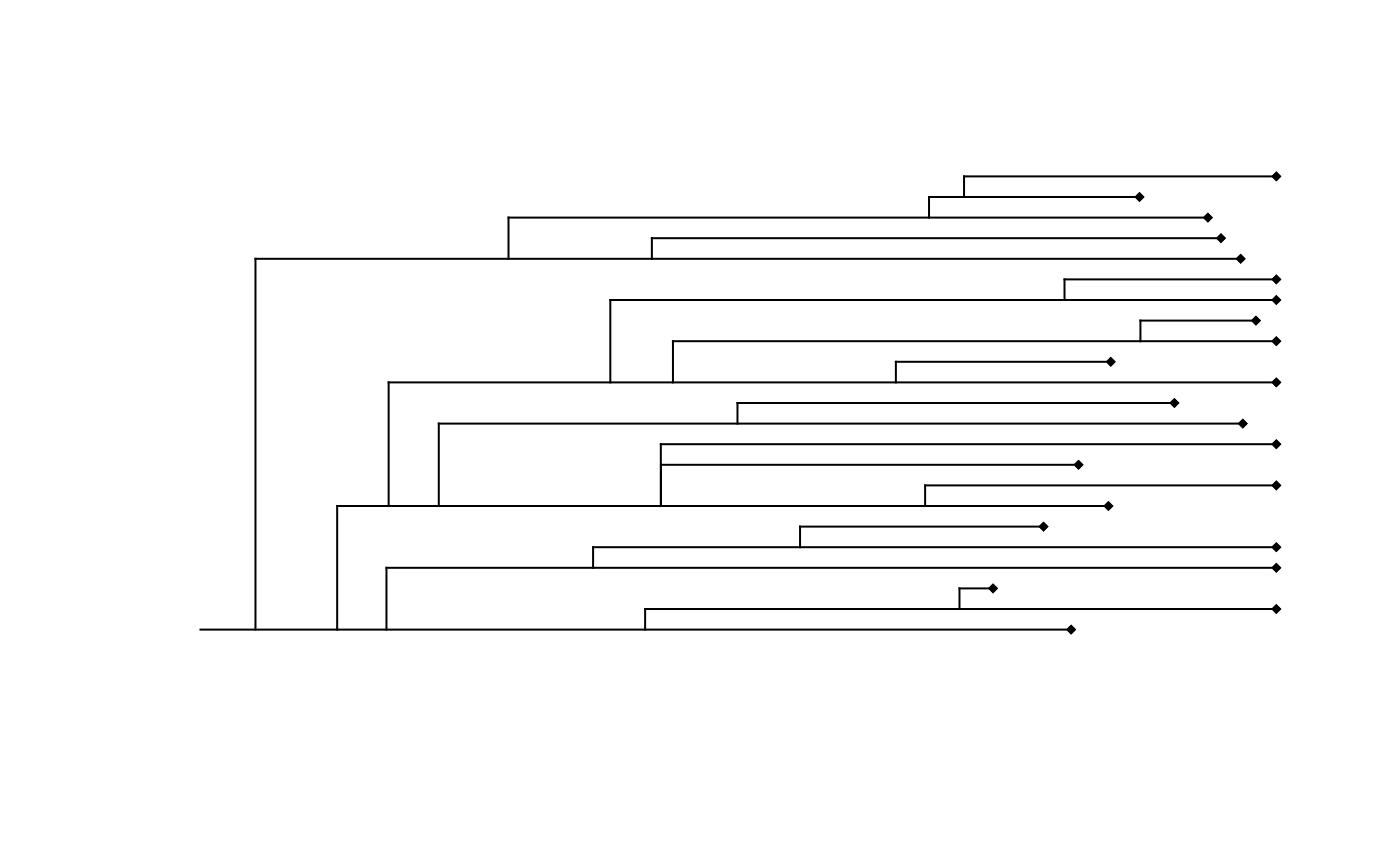
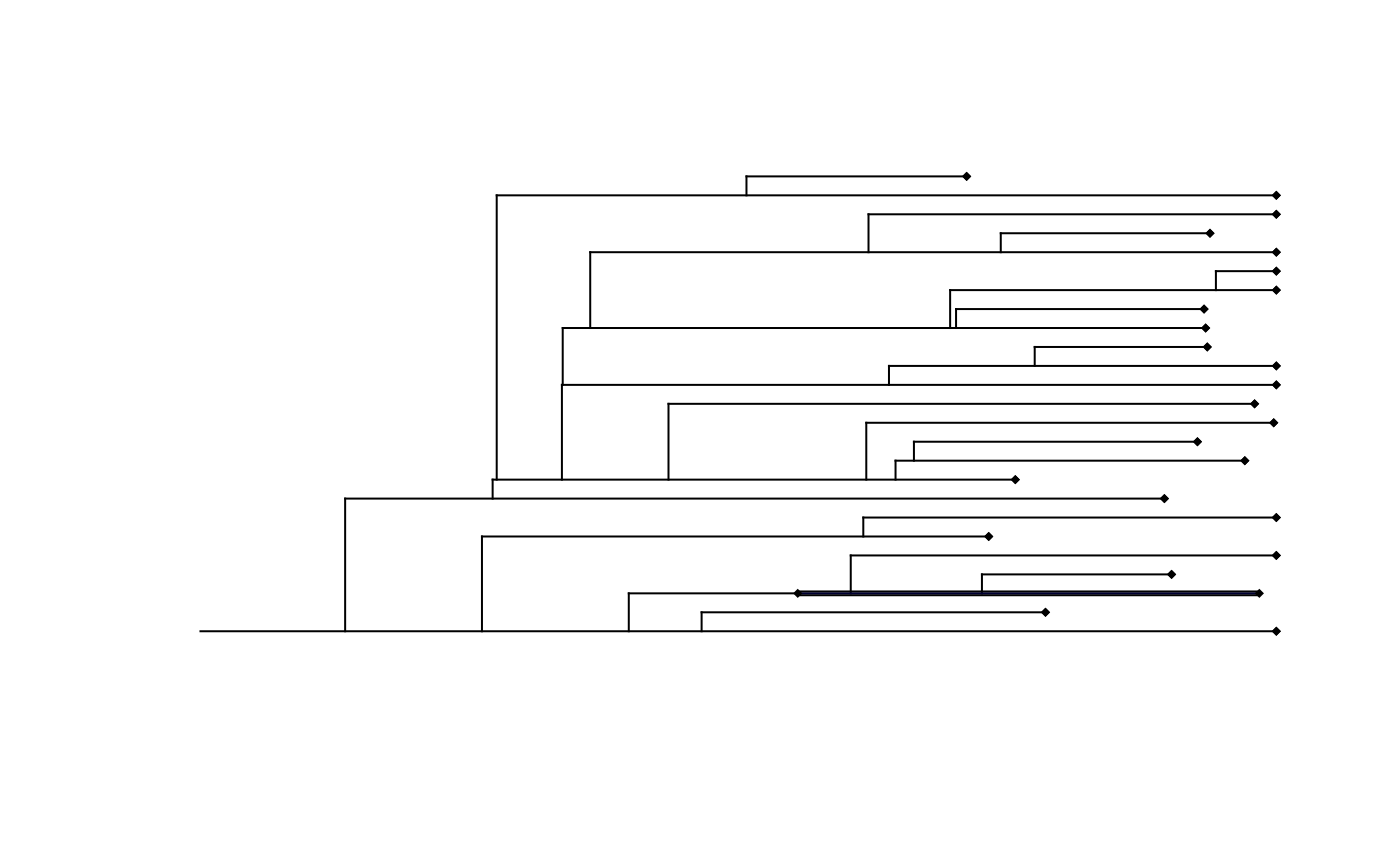
final project

Changed region(s): [[0.1536, 0.1873, 0.9214, 0.7491], [0.3379, 0.6555, 0.3686, 0.6867]]

diff --git a/docs/articles/Baruwal_R_Package_Tutorial.html b/docs/articles/Baruwal_R_Package_Tutorial.html
@@ -87,11 +87,11 @@
 <p>You might need to install these packages:</p>
 <div class="sourceCode" id="cb1"><pre class="downlit sourceCode r">
 <code class="sourceCode R"><span class="fu"><a href="https://rdrr.io/r/utils/install.packages.html" class="external-link">install.packages</a></span><span class="op">(</span><span class="st">"tidyverse"</span><span class="op">)</span></code></pre></div>
-<pre><code><span class="co">## Installing package into '/tmp/Rtmplx8jUv/temp_libpath11a576e508'</span>
+<pre><code><span class="co">## Installing package into '/tmp/Rtmplx8jUv/temp_libpath11a23e0ba47'</span>
 <span class="co">## (as 'lib' is unspecified)</span></code></pre>
 <div class="sourceCode" id="cb3"><pre class="downlit sourceCode r">
 <code class="sourceCode R"><span class="fu"><a href="https://rdrr.io/r/utils/install.packages.html" class="external-link">install.packages</a></span><span class="op">(</span><span class="st">"ggplot2"</span><span class="op">)</span></code></pre></div>
-<pre><code><span class="co">## Installing package into '/tmp/Rtmplx8jUv/temp_libpath11a576e508'</span>
+<pre><code><span class="co">## Installing package into '/tmp/Rtmplx8jUv/temp_libpath11a23e0ba47'</span>
 <span class="co">## (as 'lib' is unspecified)</span></code></pre>
 <div class="sourceCode" id="cb5"><pre class="downlit sourceCode r">
 <code class="sourceCode R"><span class="kw"><a href="https://rdrr.io/r/base/library.html" class="external-link">library</a></span><span class="op">(</span><span class="va"><a href="https://tidyverse.tidyverse.org" class="external-link">tidyverse</a></span><span class="op">)</span></code></pre></div>
@@ -107,7 +107,7 @@
 <code class="sourceCode R"><span class="kw"><a href="https://rdrr.io/r/base/library.html" class="external-link">library</a></span><span class="op">(</span><span class="va"><a href="https://ggplot2.tidyverse.org" class="external-link">ggplot2</a></span><span class="op">)</span></code></pre></div>
 <div class="sourceCode" id="cb10"><pre class="downlit sourceCode r">
 <code class="sourceCode R"><span class="fu"><a href="https://rdrr.io/r/utils/install.packages.html" class="external-link">install.packages</a></span><span class="op">(</span><span class="st">"devtools"</span><span class="op">)</span></code></pre></div>
-<pre><code><span class="co">## Installing package into '/tmp/Rtmplx8jUv/temp_libpath11a576e508'</span>
+<pre><code><span class="co">## Installing package into '/tmp/Rtmplx8jUv/temp_libpath11a23e0ba47'</span>
 <span class="co">## (as 'lib' is unspecified)</span></code></pre>
 <div class="sourceCode" id="cb12"><pre class="downlit sourceCode r">
 <code class="sourceCode R"><span class="kw"><a href="https://rdrr.io/r/base/library.html" class="external-link">library</a></span><span class="op">(</span><span class="va"><a href="https://devtools.r-lib.org/" class="external-link">devtools</a></span><span class="op">)</span></code></pre></div>
@@ -115,7 +115,7 @@
 <p>You need to install FossilSim R package for this package to run. # FossilSim is used for simulating trees directly from a fossilized-birth death process using the sim.fbd function.</p>
 <div class="sourceCode" id="cb14"><pre class="downlit sourceCode r">
 <code class="sourceCode R"><span class="fu"><a href="https://rdrr.io/r/utils/install.packages.html" class="external-link">install.packages</a></span><span class="op">(</span><span class="st">"FossilSim"</span><span class="op">)</span></code></pre></div>
-<pre><code><span class="co">## Installing package into '/tmp/Rtmplx8jUv/temp_libpath11a576e508'</span>
+<pre><code><span class="co">## Installing package into '/tmp/Rtmplx8jUv/temp_libpath11a23e0ba47'</span>
 <span class="co">## (as 'lib' is unspecified)</span></code></pre>
 <div class="sourceCode" id="cb16"><pre class="downlit sourceCode r">
 <code class="sourceCode R"><span class="kw"><a href="https://rdrr.io/r/base/library.html" class="external-link">library</a></span><span class="op">(</span><span class="va">FossilSim</span><span class="op">)</span></code></pre></div>
@@ -125,9 +125,9 @@
 <pre><code><span class="co">## Using github PAT from envvar GITHUB_PAT</span></code></pre>
 <pre><code><span class="co">## Downloading GitHub repo simranbaru/R_Package_Baruwal@HEAD</span></code></pre>
 <pre><code>##   
-   checking for file ‘/tmp/RtmpBo1Dth/remotes3426ea2f4da/simranbaru-R_package_Baruwal-b3186c9/DESCRIPTION’ ...
+   checking for file ‘/tmp/RtmpGLisFs/remoteseff4a9948d5/simranbaru-R_package_Baruwal-9e90d06/DESCRIPTION’ ...
   
- [32m✓ [39m   [38;5;247mchecking for file ‘/tmp/RtmpBo1Dth/remotes3426ea2f4da/simranbaru-R_package_Baruwal-b3186c9/DESCRIPTION’ [39m [36m [39m
+ [32m✓ [39m   [38;5;247mchecking for file ‘/tmp/RtmpGLisFs/remoteseff4a9948d5/simranbaru-R_package_Baruwal-9e90d06/DESCRIPTION’ [39m [36m [39m
 ## 
   
  [38;5;247m─ [39m [38;5;247m   [39m [38;5;247mpreparing ‘BaruwalRPackage’: [39m [36m [39m
@@ -150,7 +150,7 @@
   
    
 ## </code></pre>
-<pre><code><span class="co">## Installing package into '/tmp/Rtmplx8jUv/temp_libpath11a576e508'</span>
+<pre><code><span class="co">## Installing package into '/tmp/Rtmplx8jUv/temp_libpath11a23e0ba47'</span>
 <span class="co">## (as 'lib' is unspecified)</span></code></pre>
 <div class="sourceCode" id="cb22"><pre class="downlit sourceCode r">
 <code class="sourceCode R"><span class="kw"><a href="https://rdrr.io/r/base/library.html" class="external-link">library</a></span><span class="op">(</span><span class="va">BaruwalRPackage</span><span class="op">)</span>
@@ -215,10 +215,10 @@
 <code class="sourceCode R"><span class="fu"><a href="../reference/simulation.html">simulation</a></span><span class="op">(</span>n<span class="op">=</span><span class="fl">10</span>, numbsim<span class="op">=</span><span class="fl">1</span>, lambda <span class="op">=</span> <span class="fl">0.01806175</span>, mu <span class="op">=</span> <span class="fl">1.078013e-03</span> , psi <span class="op">=</span> <span class="fl">5.172419e-02</span>, frac <span class="op">=</span> <span class="fl">.01</span><span class="op">)</span></code></pre></div>
 <pre><code><span class="co">## [[1]]</span>
 <span class="co">## </span>
-<span class="co">## Phylogenetic tree with 2823 tips and 2822 internal nodes.</span>
+<span class="co">## Phylogenetic tree with 2922 tips and 2921 internal nodes.</span>
 <span class="co">## </span>
 <span class="co">## Tip labels:</span>
-<span class="co">##   t244_2, t649_5, t260_1, t76_1, t366_8, t74_3, ...</span>
+<span class="co">##   t877_2, t796_2, t554_2, t401_2, t482_1, t681_4, ...</span>
 <span class="co">## </span>
 <span class="co">## Rooted; includes branch lengths.</span></code></pre>
 <p>Now, lets simulate the data creating a vector using the function simulation:</p>
@@ -232,55 +232,46 @@
 <span class="op">}</span></code></pre></div>
 <pre><code><span class="co">## [[1]]</span>
 <span class="co">## </span>
-<span class="co">## Phylogenetic tree with 3013 tips and 3012 internal nodes.</span>
+<span class="co">## Phylogenetic tree with 3130 tips and 3129 internal nodes.</span>
 <span class="co">## </span>
 <span class="co">## Tip labels:</span>
-<span class="co">##   t1060_3, t360_1, t448_7, t72_7, t365_1, t99_1, ...</span>
+<span class="co">##   t291_1, t1046_7, t124_1, t644_6, t379_2, t968_2, ...</span>
 <span class="co">## </span>
 <span class="co">## Rooted; includes branch lengths.</span>
 <span class="co">## </span>
 <span class="co">## [[1]]</span>
 <span class="co">## </span>
-<span class="co">## Phylogenetic tree with 1265 tips and 1264 internal nodes.</span>
+<span class="co">## Phylogenetic tree with 1224 tips and 1223 internal nodes.</span>
 <span class="co">## </span>
 <span class="co">## Tip labels:</span>
-<span class="co">##   t471_2, t982_2, t597_1, t916_4, t203_1, t663_1, ...</span>
+<span class="co">##   t82_3, t804_1, t646_1, t390_1, t35_1, t938_1, ...</span>
 <span class="co">## </span>
 <span class="co">## Rooted; includes branch lengths.</span>
 <span class="co">## </span>
 <span class="co">## [[1]]</span>
 <span class="co">## </span>
-<span class="co">## Phylogenetic tree with 411 tips and 410 internal nodes.</span>
+<span class="co">## Phylogenetic tree with 424 tips and 423 internal nodes.</span>
 <span class="co">## </span>
 <span class="co">## Tip labels:</span>
-<span class="co">##   t608_1, t755_1, t306_1, t787_1, t312_1, t664_2, ...</span>
+<span class="co">##   t408_1, t100_1, t673_2, t396_1, t507_2, t922_1, ...</span>
 <span class="co">## </span>
 <span class="co">## Rooted; includes branch lengths.</span>
 <span class="co">## </span>
 <span class="co">## [[1]]</span>
 <span class="co">## </span>
-<span class="co">## Phylogenetic tree with 114 tips and 113 internal nodes.</span>
+<span class="co">## Phylogenetic tree with 106 tips and 105 internal nodes.</span>
 <span class="co">## </span>
 <span class="co">## Tip labels:</span>
-<span class="co">##   t528_1, t140_2, t208_1, t713_1, t815_1, t439_1, ...</span>
+<span class="co">##   t677_1, t925_1, t594_1, t74_1, t221_1, t114_1, ...</span>
 <span class="co">## </span>
 <span class="co">## Rooted; includes branch lengths.</span>
 <span class="co">## </span>
 <span class="co">## [[1]]</span>
 <span class="co">## </span>
-<span class="co">## Phylogenetic tree with 23 tips and 22 internal nodes.</span>
+<span class="co">## Phylogenetic tree with 26 tips and 25 internal nodes.</span>
 <span class="co">## </span>
 <span class="co">## Tip labels:</span>
-<span class="co">##   t131_1, t217_1, t503_1, t313_1, t530_1, t874_1, ...</span>
-<span class="co">## </span>
-<span class="co">## Rooted; includes branch lengths.</span>
-<span class="co">## </span>
-<span class="co">## [[1]]</span>
-<span class="co">## </span>
-<span class="co">## Phylogenetic tree with 12 tips and 11 internal nodes.</span>
-<span class="co">## </span>
-<span class="co">## Tip labels:</span>
-<span class="co">##   t412_1, t716_1, t670_1, t303_1, t141_1, t279_1, ...</span>
+<span class="co">##   t666_1, t154_1, t695_1, t330_1, t467_1, t23_1, ...</span>
 <span class="co">## </span>
 <span class="co">## Rooted; includes branch lengths.</span>
 <span class="co">## </span>
@@ -289,16 +280,7 @@
 <span class="co">## Phylogenetic tree with 13 tips and 12 internal nodes.</span>
 <span class="co">## </span>
 <span class="co">## Tip labels:</span>
-<span class="co">##   t38_1, t361_1, t826_1, t11_1, t141_1, t655_1, ...</span>
-<span class="co">## </span>
-<span class="co">## Rooted; includes branch lengths.</span>
-<span class="co">## </span>
-<span class="co">## [[1]]</span>
-<span class="co">## </span>
-<span class="co">## Phylogenetic tree with 11 tips and 10 internal nodes.</span>
-<span class="co">## </span>
-<span class="co">## Tip labels:</span>
-<span class="co">##   t804_1, t887_1, t816_1, t741_1, t627_1, t595_1, ...</span>
+<span class="co">##   t385_1, t456_1, t571_1, t448_1, t1000_1, t525_1, ...</span>
 <span class="co">## </span>
 <span class="co">## Rooted; includes branch lengths.</span>
 <span class="co">## </span>
@@ -307,25 +289,7 @@
 <span class="co">## Phylogenetic tree with 12 tips and 11 internal nodes.</span>
 <span class="co">## </span>
 <span class="co">## Tip labels:</span>
-<span class="co">##   t824_1, t891_1, t217_1, t697_1, t468_1, t970_1, ...</span>
-<span class="co">## </span>
-<span class="co">## Rooted; includes branch lengths.</span>
-<span class="co">## </span>
-<span class="co">## [[1]]</span>
-<span class="co">## </span>
-<span class="co">## Phylogenetic tree with 11 tips and 10 internal nodes.</span>
-<span class="co">## </span>
-<span class="co">## Tip labels:</span>
-<span class="co">##   t738_1, t768_1, t584_1, t185_1, t405_1, t324_1, ...</span>
-<span class="co">## </span>
-<span class="co">## Rooted; includes branch lengths.</span>
-<span class="co">## </span>
-<span class="co">## [[1]]</span>
-<span class="co">## </span>
-<span class="co">## Phylogenetic tree with 11 tips and 10 internal nodes.</span>
-<span class="co">## </span>
-<span class="co">## Tip labels:</span>
-<span class="co">##   t667_1, t333_1, t804_1, t471_1, t572_1, t492_1, ...</span>
+<span class="co">##   t139_1, t895_1, t648_1, t685_1, t429_1, t675_1, ...</span>
 <span class="co">## </span>
 <span class="co">## Rooted; includes branch lengths.</span>
 <span class="co">## </span>
@@ -334,7 +298,70 @@
 <span class="co">## Phylogenetic tree with 10 tips and 9 internal nodes.</span>
 <span class="co">## </span>
 <span class="co">## Tip labels:</span>
-<span class="co">##   t350_1, t756_1, t856_1, t222_1, t968_1, t896_1, ...</span>
+<span class="co">##   t763_1, t402_1, t691_1, t912_1, t170_1, t186_1, ...</span>
+<span class="co">## </span>
+<span class="co">## Rooted; includes branch lengths.</span>
+<span class="co">## </span>
+<span class="co">## [[1]]</span>
+<span class="co">## </span>
+<span class="co">## Phylogenetic tree with 15 tips and 14 internal nodes.</span>
+<span class="co">## </span>
+<span class="co">## Tip labels:</span>
+<span class="co">##   t285_1, t194_1, t253_1, t816_1, t833_1, t595_1, ...</span>
+<span class="co">## </span>
+<span class="co">## Rooted; includes branch lengths.</span>
+<span class="co">## </span>
+<span class="co">## [[1]]</span>
+<span class="co">## </span>
+<span class="co">## Phylogenetic tree with 14 tips and 13 internal nodes.</span>
+<span class="co">## </span>
+<span class="co">## Tip labels:</span>
+<span class="co">##   t731_1, t744_1, t894_1, t272_1, t156_1, t462_1, ...</span>
+<span class="co">## </span>
+<span class="co">## Rooted; includes branch lengths.</span>
+<span class="co">## </span>
+<span class="co">## [[1]]</span>
+<span class="co">## </span>
+<span class="co">## Phylogenetic tree with 12 tips and 11 internal nodes.</span>
+<span class="co">## </span>
+<span class="co">## Tip labels:</span>
+<span class="co">##   t154_1, t626_1, t446_1, t109_1, t307_1, t859_1, ...</span>
+<span class="co">## </span>
+<span class="co">## Rooted; includes branch lengths.</span>
+<span class="co">## </span>
+<span class="co">## [[1]]</span>
+<span class="co">## </span>
+<span class="co">## Phylogenetic tree with 10 tips and 9 internal nodes.</span>
+<span class="co">## </span>
+<span class="co">## Tip labels:</span>
+<span class="co">##   t30_1, t1034_1, t58_1, t721_1, t754_1, t684_1, ...</span>
+<span class="co">## </span>
+<span class="co">## Rooted; includes branch lengths.</span>
+<span class="co">## </span>
+<span class="co">## [[1]]</span>
+<span class="co">## </span>
+<span class="co">## Phylogenetic tree with 11 tips and 10 internal nodes.</span>
+<span class="co">## </span>
+<span class="co">## Tip labels:</span>
+<span class="co">##   t218_1, t137_1, t295_1, t349_1, t1010_1, t274_1, ...</span>
+<span class="co">## </span>
+<span class="co">## Rooted; includes branch lengths.</span>
+<span class="co">## </span>
+<span class="co">## [[1]]</span>
+<span class="co">## </span>
+<span class="co">## Phylogenetic tree with 16 tips and 15 internal nodes.</span>
+<span class="co">## </span>
+<span class="co">## Tip labels:</span>
+<span class="co">##   t870_1, t9_1, t411_1, t737_1, t491_1, t880_1, ...</span>
+<span class="co">## </span>
+<span class="co">## Rooted; includes branch lengths.</span>
+<span class="co">## </span>
+<span class="co">## [[1]]</span>
+<span class="co">## </span>
+<span class="co">## Phylogenetic tree with 12 tips and 11 internal nodes.</span>
+<span class="co">## </span>
+<span class="co">## Tip labels:</span>
+<span class="co">##   t378_1, t575_1, t314_1, t257_1, t656_1, t506_1, ...</span>
 <span class="co">## </span>
 <span class="co">## Rooted; includes branch lengths.</span>
 <span class="co">## </span>
@@ -343,7 +370,7 @@
 <span class="co">## Phylogenetic tree with 13 tips and 12 internal nodes.</span>
 <span class="co">## </span>
 <span class="co">## Tip labels:</span>
-<span class="co">##   t529_1, t400_1, t754_1, t970_1, t30_1, t565_1, ...</span>
+<span class="co">##   t1012_1, t867_1, t230_1, t88_1, t810_1, t1039_1, ...</span>
 <span class="co">## </span>
 <span class="co">## Rooted; includes branch lengths.</span>
 <span class="co">## </span>
@@ -352,7 +379,16 @@
 <span class="co">## Phylogenetic tree with 12 tips and 11 internal nodes.</span>
 <span class="co">## </span>
 <span class="co">## Tip labels:</span>
-<span class="co">##   t490_1, t766_1, t979_1, t800_1, t906_1, t74_1, ...</span>
+<span class="co">##   t442_1, t955_1, t852_1, t807_1, t251_1, t643_1, ...</span>
+<span class="co">## </span>
+<span class="co">## Rooted; includes branch lengths.</span>
+<span class="co">## </span>
+<span class="co">## [[1]]</span>
+<span class="co">## </span>
+<span class="co">## Phylogenetic tree with 12 tips and 11 internal nodes.</span>
+<span class="co">## </span>
+<span class="co">## Tip labels:</span>
+<span class="co">##   t743_1, t587_1, t299_1, t416_1, t95_1, t381_1, ...</span>
 <span class="co">## </span>
 <span class="co">## Rooted; includes branch lengths.</span>
 <span class="co">## </span>
@@ -361,25 +397,7 @@
 <span class="co">## Phylogenetic tree with 11 tips and 10 internal nodes.</span>
 <span class="co">## </span>
 <span class="co">## Tip labels:</span>
-<span class="co">##   t190_1, t594_1, t767_1, t766_1, t409_1, t696_1, ...</span>
-<span class="co">## </span>
-<span class="co">## Rooted; includes branch lengths.</span>
-<span class="co">## </span>
-<span class="co">## [[1]]</span>
-<span class="co">## </span>
-<span class="co">## Phylogenetic tree with 12 tips and 11 internal nodes.</span>
-<span class="co">## </span>
-<span class="co">## Tip labels:</span>
-<span class="co">##   t1019_1, t688_1, t1045_1, t321_1, t554_1, t359_1, ...</span>
-<span class="co">## </span>
-<span class="co">## Rooted; includes branch lengths.</span>
-<span class="co">## </span>
-<span class="co">## [[1]]</span>
-<span class="co">## </span>
-<span class="co">## Phylogenetic tree with 12 tips and 11 internal nodes.</span>
-<span class="co">## </span>
-<span class="co">## Tip labels:</span>
-<span class="co">##   t780_1, t567_1, t292_1, t856_1, t876_1, t700_1, ...</span>
+<span class="co">##   t629_1, t103_1, t15_1, t132_1, t799_1, t971_1, ...</span>
 <span class="co">## </span>
 <span class="co">## Rooted; includes branch lengths.</span>
 <span class="co">## </span>
@@ -388,25 +406,7 @@
 <span class="co">## Phylogenetic tree with 11 tips and 10 internal nodes.</span>
 <span class="co">## </span>
 <span class="co">## Tip labels:</span>
-<span class="co">##   t477_1, t703_1, t199_1, t522_1, t267_1, t17_1, ...</span>
-<span class="co">## </span>
-<span class="co">## Rooted; includes branch lengths.</span>
-<span class="co">## </span>
-<span class="co">## [[1]]</span>
-<span class="co">## </span>
-<span class="co">## Phylogenetic tree with 12 tips and 11 internal nodes.</span>
-<span class="co">## </span>
-<span class="co">## Tip labels:</span>
-<span class="co">##   t798_1, t785_1, t783_1, t419_1, t486_1, t952_1, ...</span>
-<span class="co">## </span>
-<span class="co">## Rooted; includes branch lengths.</span>
-<span class="co">## </span>
-<span class="co">## [[1]]</span>
-<span class="co">## </span>
-<span class="co">## Phylogenetic tree with 12 tips and 11 internal nodes.</span>
-<span class="co">## </span>
-<span class="co">## Tip labels:</span>
-<span class="co">##   t731_1, t760_1, t158_1, t611_1, t209_1, t974_1, ...</span>
+<span class="co">##   t719_1, t1012_1, t949_1, t618_1, t519_1, t63_1, ...</span>
 <span class="co">## </span>
 <span class="co">## Rooted; includes branch lengths.</span></code></pre>
 <p>In the above code we have created a loop using ‘while’ so that we do not need to enter the values manually. Then we have created the variable tree which is a vector to store our data from simulation.</p>
@@ -415,7 +415,7 @@
 <p>For Example:</p>
 <div class="sourceCode" id="cb36"><pre class="downlit sourceCode r">
 <code class="sourceCode R"><span class="va">trees</span><span class="op">[[</span><span class="fl">1</span><span class="op">]</span><span class="op">]</span><span class="op">$</span><span class="va">root.edge</span></code></pre></div>
-<pre><code><span class="co">## [1] 28.16657</span></code></pre>
+<pre><code><span class="co">## [1] 3.109559</span></code></pre>
 <p>It returns the simulated value from first tree simulated. We can do the same for other 19.</p>
 <p>If we want to create an object to store the simulated data, we can create a for loop which collects the data at once for all 20 trees.</p>
 <div class="sourceCode" id="cb38"><pre class="downlit sourceCode r">
@@ -466,7 +466,7 @@
 <p>This function calculate the difference between the emperical test statistic value and the median of simulated test statistic divided by the standard deviation of simulated test statistic. It shows how many standard deviations away from the median is the observed value.</p>
 <div class="sourceCode" id="cb45"><pre class="downlit sourceCode r">
 <code class="sourceCode R"><span class="fu"><a href="../reference/effect_size.html">effect_size</a></span><span class="op">(</span>datasdf <span class="op">=</span> <span class="va">datas</span><span class="op">)</span></code></pre></div>
-<pre><code><span class="co">## [1] 0.9606556</span></code></pre>
+<pre><code><span class="co">## [1] 0.9572299</span></code></pre>
 </div>
   </div>
 
